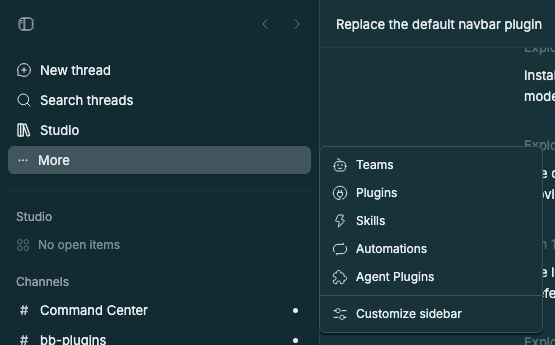
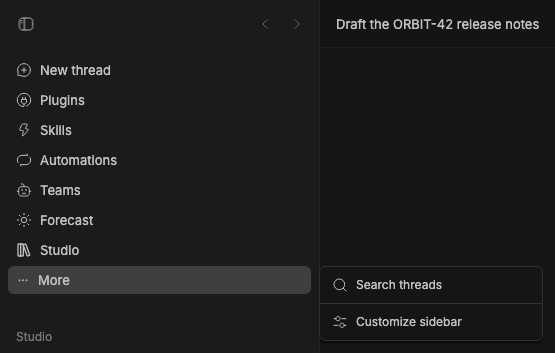
Capture Studio Navigation from a staged BB
The Studio Navigation preview came from the BB I work in, so it showed
real channel names. scripts/staged-bb.mjs runs a staged BB instead:
- stable BB on its own data directory and ports, never ~/.bb;
- every plugin installed from GitHub at a pushed commit, the way users
  install them;
- a demo project whose threads never start an agent;
- capture.env, which points the capture scripts at the staged instance.

It also installs Forecast, a fixture plugin outside BB Studio. The
capture now checks that Forecast's row stays. It looks for each row in
the navigation or in More, since placement depends on saved preferences.

diff --git a/scripts/capture/fixtures/forecast/app.tsx b/scripts/capture/fixtures/forecast/app.tsx
@@ -1,0 +1,12 @@
+// A plugin outside BB Studio, staged so captures show that its sidebar row stays.
+import { definePluginApp } from "@get-bb/plugin-sdk/app";
+
+export default definePluginApp((app) => {
+  app.slots.navPanel({
+    id: "forecast",
+    title: "Forecast",
+    icon: "staged-forecast/sun",
+    path: "forecast",
+    component: () => <div style={{ padding: 24 }}>Sunny, 21°C</div>,
+  });
+});

diff --git a/scripts/capture/fixtures/forecast/server.ts b/scripts/capture/fixtures/forecast/server.ts
@@ -1,0 +1,1 @@
+export default function forecast() {}

diff --git a/packages/bb-studio-navigation/README.md b/packages/bb-studio-navigation/README.md
@@ -30,17 +30,16 @@ and [LICENSE](LICENSE) for the upstream license.
 
 ## Staged preview
 
-![Studio Navigation with New thread, Search threads, and Studio, and More open](assets/staged-preview.png)
+![Studio Navigation with BB's rows, Teams, Forecast, and Studio, and More open](assets/staged-preview.png)
 
-Captured from the running BB sidebar with Studio Navigation as the navigation
-provider and Studio Sidebar as the thread list. Every Studio plugin with a
-sidebar row is installed and running. The rows show New thread, Search
-threads, and Studio; **More** holds Teams, BB's Plugins, Skills, and
-Automations, and Agent Plugins, a panel from a plugin outside BB Studio. The
-capture asserts that Studio Navigation draws the region, that New thread,
-Studio, Teams, Plugins, and Skills are present, and that none of Pages,
-Drawings, Artifacts, Recordings, Tasks, Tables, or New channel appear in the
-rows or in **More**.
+Captured from a staged BB 0.44.0 started by `scripts/staged-bb.mjs`, with
+every BB Studio plugin installed from this repository's Git source and a demo
+project, Orbit. Studio Navigation draws the rows and Studio Sidebar the thread
+list. The rows show BB's New thread, Plugins, Skills, and Automations, Studio
+Teams, Studio, and Forecast, a staged plugin outside BB Studio; **More** holds
+Search threads. The capture asserts that Studio Navigation draws the region,
+that those rows are present, and that none of Pages, Drawings, Artifacts,
+Recordings, Tasks, Tables, or New channel appear in the rows or in **More**.
 
 ## Development
 

diff --git a/AGENTS.md b/AGENTS.md
@@ -60,6 +60,11 @@ BB application in a staged environment before handoff.
 
 - Start the normal BB application and use its full rendered UI. Seed the
   plugin's primary workflow with safe, deterministic local data.
+- Capture from a staged BB, not the one you work in, whose projects, threads,
+  and channels are private. `node scripts/staged-bb.mjs start` runs stable BB
+  on its own data directory and ports, installs every plugin from GitHub at a
+  pushed commit, seeds a demo project, and writes a `capture.env` to source
+  before capturing. `node scripts/staged-bb.mjs stop` removes it.
 - Add the plugin to the capture definitions in
   `scripts/capture/captures/<plugin>.mjs`, including an assertion for the
   live surface and the data that must be visible. Run it with a seeded thread:

diff --git a/README.md b/README.md
@@ -115,6 +115,7 @@ pnpm check:compat        # every plugin installs on the current stable BB
 bb marketplace add path:.   # try the catalog from a local checkout
 pnpm plugins:install     # install every plugin from this checkout
 scripts/refresh-locks.sh bb-studio-tasks  # refresh a plugin npm lock in a clean clone
+node scripts/staged-bb.mjs start         # a staged BB for README screenshots; stop removes it
 ```
 
 The iOS app builds with Xcode and [XcodeGen](https://github.com/yonaskolb/XcodeGen)
